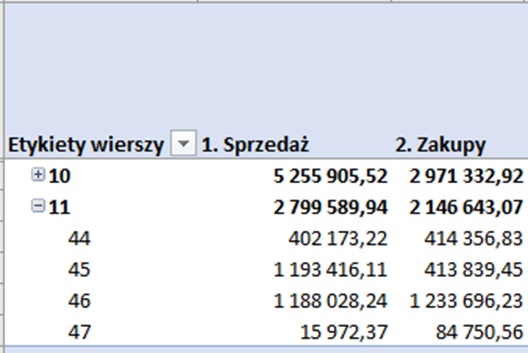
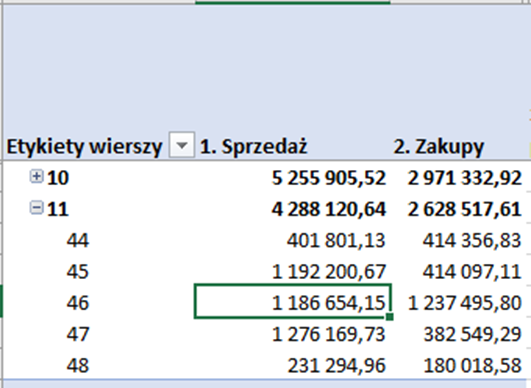
Whole main section updated for week 47

Changed region(s): [[0.0, 0.0, 1.0, 1.0]]

diff --git a/index.html b/index.html
@@ -140,13 +140,15 @@ o   STM`ów (STM32G030K8T6) mamy 4800 szt czyli komponenty wg mnie będą zabezp
                </tr>
              </table>
              <br>
+             <b>Poniżej jak przedstawiają się wyliczenia dla naszego najkrótszego paska (ceny z doliczonym transportem):</b>
+             <img id="smartt" src="./images/smartt.png" alt="">
             <h2>Sprzedaż vs zakupy</h2>
-          <!-- <img id="vsZak" src="./images/sVSzak.png" alt=""> -->
+          <img id="vsZak" src="./images/sVSzak.png" alt="">
         </ul>
         <ul>
           <li>Największe przyjęcia w 47 tygodniu.</li>
         </ul>
-        <!-- <img src="./images/przyjecia.png"> -->
+        <img src="./images/przyjecia.png">
     </p>
  
     </section>
